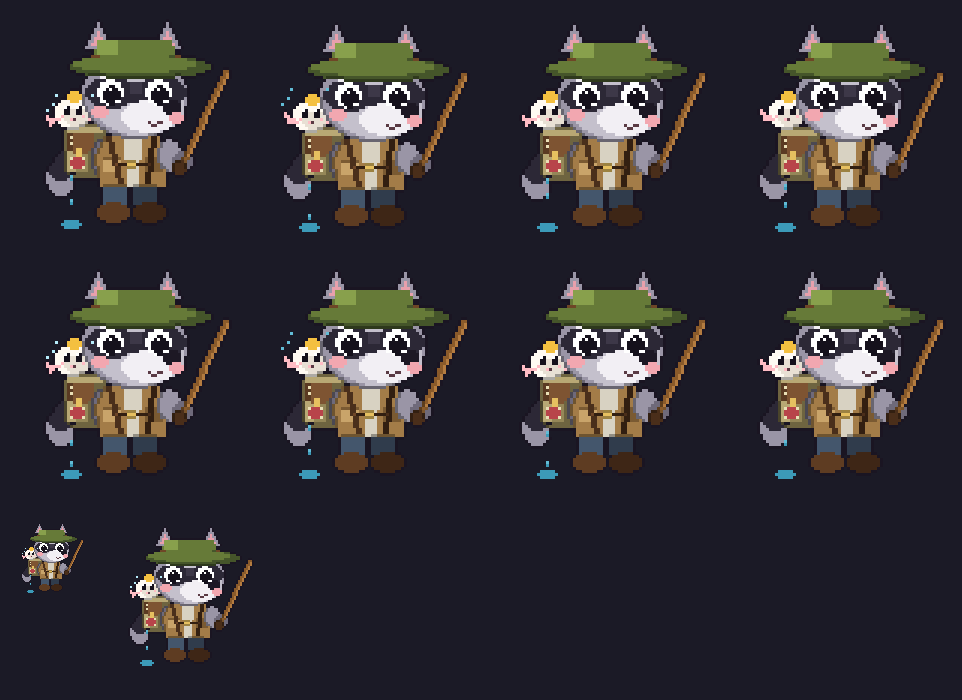
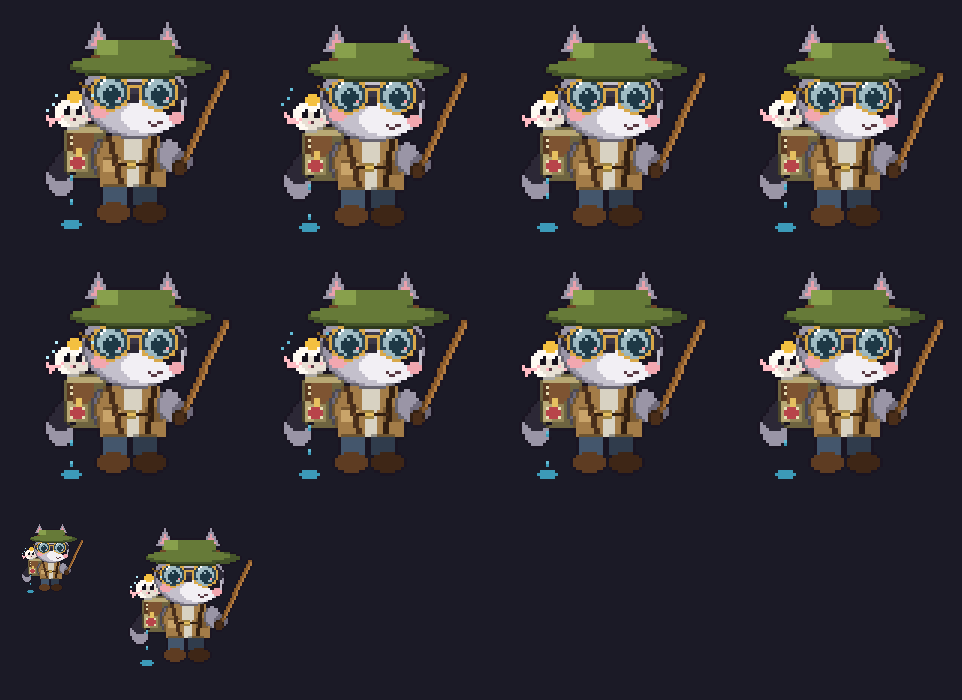
Art: Rocco's polarized fishing glasses (why the blood moon can't entrance him)
Claude-Session: https://claude.ai/code/session_01RHVZyy8vCMEMq4kRSxG4Ay

diff --git a/art/characters/rocco_hd.py b/art/characters/rocco_hd.py
@@ -2,6 +2,7 @@
 Rocco at the fine resolution (640x360 native). Built from shapes, then pixel-cleaned:
   * silhouette outline in near-black, internal edges in a darker tone of each part ("sel-out"),
     which reads finer and softer than a black line everywhere;
+  * polarized fishing glasses (why the blood moon can't entrance him);
   * a small backpack strapped on his back (straps across his chest), the Moon Koi peeking out;
   * animated: idle bob, koi bob and fin flap, water dripping from the leak and splashing out the top.
 
@@ -32,6 +33,7 @@ C = {k: hx(v) for k, v in {
     'koiw': 'fffaf2', 'koiw2': 'e8e0d4', 'koig': 'f4c040', 'koif': 'ffbcc4', 'koie': '15111c',
     'water0': '3c9ab8', 'water1': '62bcd6', 'water2': 'b6ecfa',
     'rod': '8a5a2a', 'rod2': 'b47c40', 'line': 'd8ecf4',
+    'frame': 'd8a84a', 'frame2': '8a6424', 'lens': '2a6a7a', 'glint': 'ffffff', 'glint2': 'ff9aa0',
 }.items()}
 
 class Layer:
@@ -180,6 +182,23 @@ def build(frame, leak=True, water_level=0.8):
         head.ell(ex, oy + 25, 4, 4, 'eyew')
         head.ell(ex + 1, oy + 26, 2.5, 3, 'pupil')
         head.px(ex, oy + 24, 'shine'); head.px(ex + 2, oy + 28, 'shine')
+    # polarized fishing glasses: tinted see-through lenses in a thin gold frame
+    hp = head.im.load()
+    lens = C['lens']
+    for (ex, ey) in ((ox + 25, oy + 25), (ox + 41, oy + 25)):
+        for y in range(ey - 6, ey + 7):
+            for x in range(ex - 6, ex + 7):
+                dd = ((x - ex) / 5.6) ** 2 + ((y - ey) / 5.2) ** 2
+                if not (0 <= x < FW and 0 <= y < FH): continue
+                if dd <= 1:
+                    r, g, b, a = hp[x, y]
+                    if a: hp[x, y] = (int(r * 0.55 + lens[0] * 0.45), int(g * 0.55 + lens[1] * 0.45), int(b * 0.55 + lens[2] * 0.45), 255)
+                elif dd <= 1.42:
+                    hp[x, y] = C['frame'] + (255,)
+        # glints: a white streak and a hint of the red moon in each lens
+        head.px(ex - 3, ey - 3, 'glint'); head.px(ex - 2, ey - 4, 'glint'); head.px(ex + 3, ey + 2, 'glint2')
+    head.line([(ox + 31, oy + 23), (ox + 35, oy + 23)], 'frame')           # bridge
+    head.line([(ox + 18, oy + 24), (ox + 15, oy + 22)], 'frame2')          # arm toward his ear
     L.append(head)
 
     # --- ears through holes in the bucket hat, then the hat
